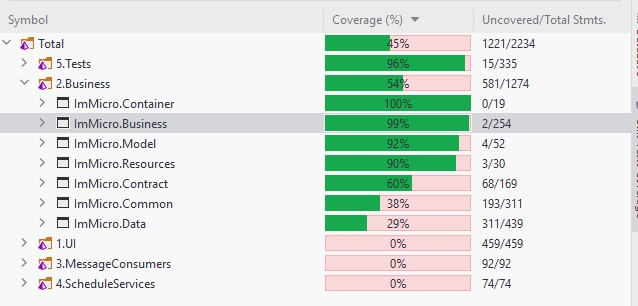
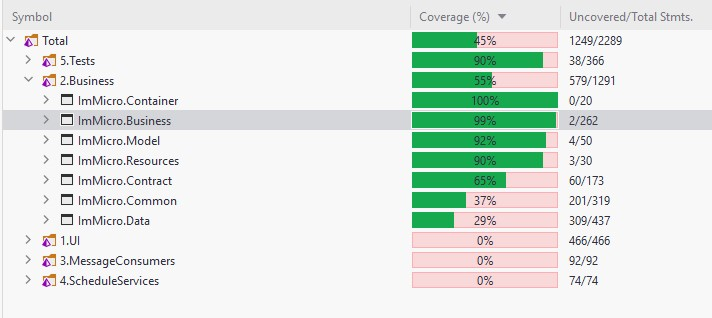
Export test added, Nuget packages updated.

Changed region(s): [[0.0, 0.0294, 1.0, 0.9706]]

diff --git a/ImMicro.BusinessTests/Services/Concrete/AuditLogServiceTests.cs b/ImMicro.BusinessTests/Services/Concrete/AuditLogServiceTests.cs
@@ -2,12 +2,14 @@
 using System.Collections.Generic;
 using System.Threading.Tasks;
 using Autofac;
+using Exporty.Models;
 using Filtery.Exceptions;
 using Filtery.Models;
 using Filtery.Models.Order;
 using ImMicro.Business.Audit.Abstract;
 using ImMicro.Common.BaseModels.Service;
 using ImMicro.Common.Data.Abstract;
+using ImMicro.Contract.App;
 using Microsoft.VisualStudio.TestTools.UnitTesting;
 
 namespace ImMicro.BusinessTests.Services.Concrete;
@@ -92,5 +94,27 @@ public class AuditLogServiceTests : TestBase
         {
             Assert.IsTrue(false);
         }
+    }
+    
+    [TestMethod]
+    public async Task ExportAsync_OK()
+    {
+        //arrange
+        var auditLog = new Model.AuditLog.AuditLog { Id = Guid.NewGuid(), EntityName = "TestEntity"};
+        await _auditLogRepository.InsertAsync(auditLog);
+        
+        //act
+        var response = await _auditLogService.ExportAsync(new ExportRequest
+        {
+            SearchRequest = new FilteryRequest
+            {
+                PageNumber = 1,
+                PageSize = 10
+            },
+            ExportType = ExportType.Excel
+        });
+
+        //assert 
+        Assert.AreEqual(ResultStatus.Successful, response.Status);
     }
 }

diff --git a/ImMicro.BusinessTests/TestBase.cs b/ImMicro.BusinessTests/TestBase.cs
@@ -12,6 +12,7 @@ using ImMicro.Common.Lock.Abstract;
 using ImMicro.Container.Modules;
 using ImMicro.Contract.Mappings.AutoMapper;
 using ImMicro.Data;
+using Microsoft.Extensions.Configuration;
 
 namespace ImMicro.BusinessTests
 {
@@ -41,6 +42,9 @@ namespace ImMicro.BusinessTests
             
             var mockLock = new Mock<ILockService>();
             builder.RegisterInstance(mockLock.Object).As<ILockService>();
+            
+            var confLock = new Mock<IConfiguration>();
+            builder.RegisterInstance(confLock.Object).As<IConfiguration>();
              
             builder.Register<IMapper>(c =>
             {
